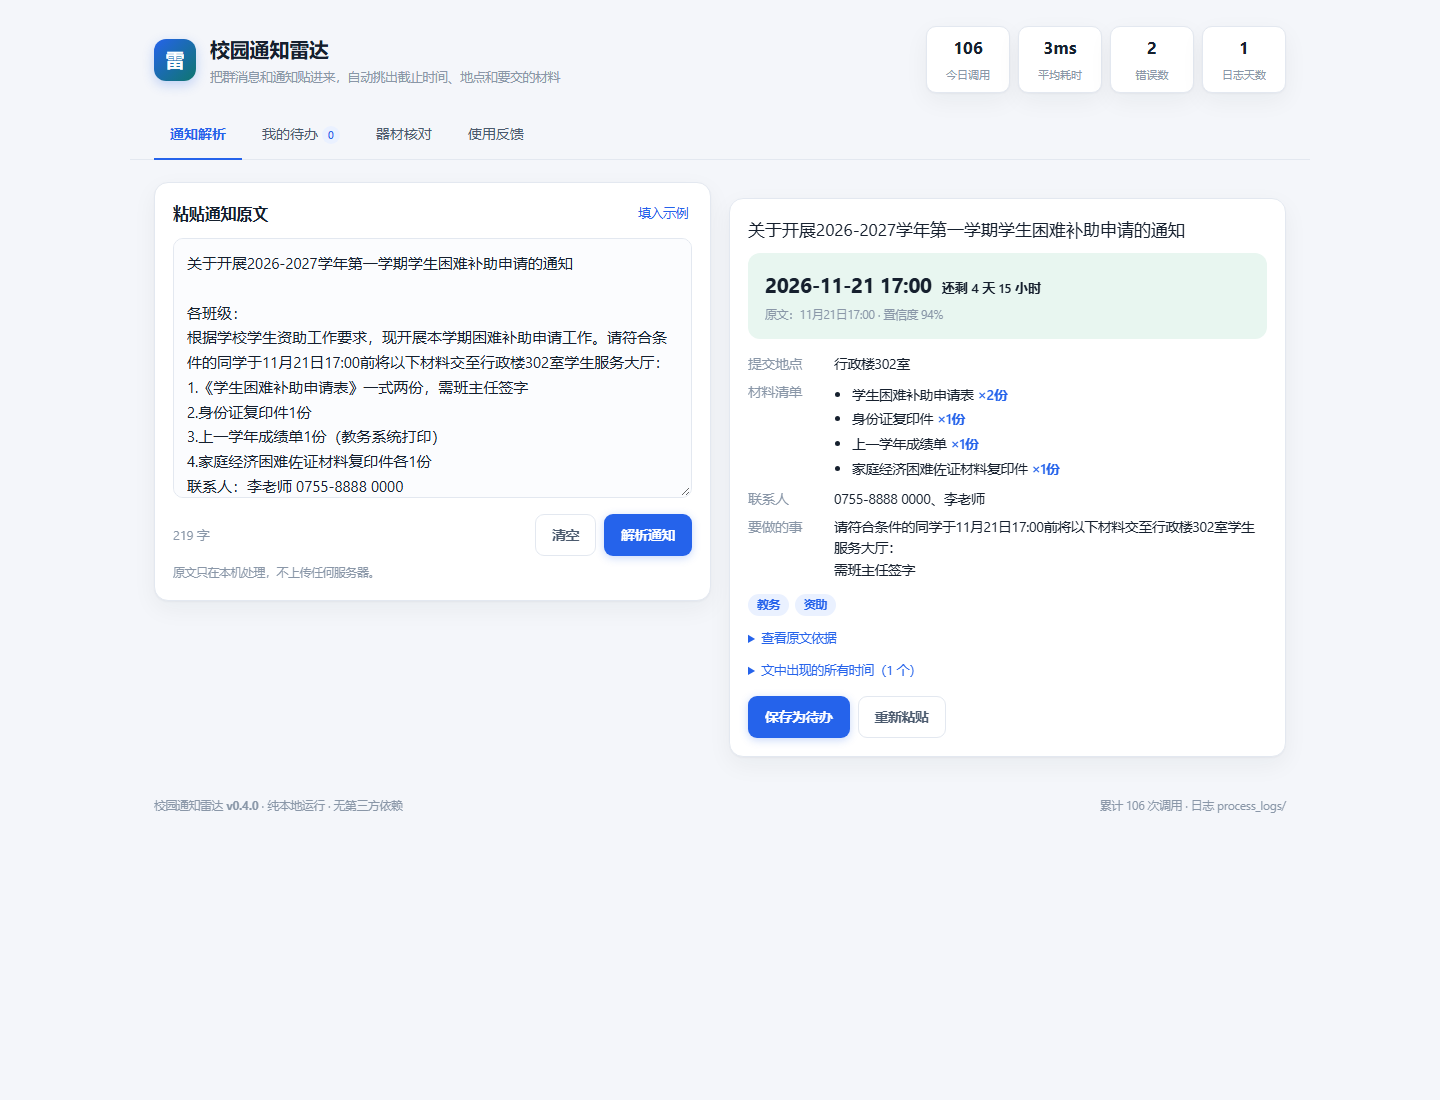
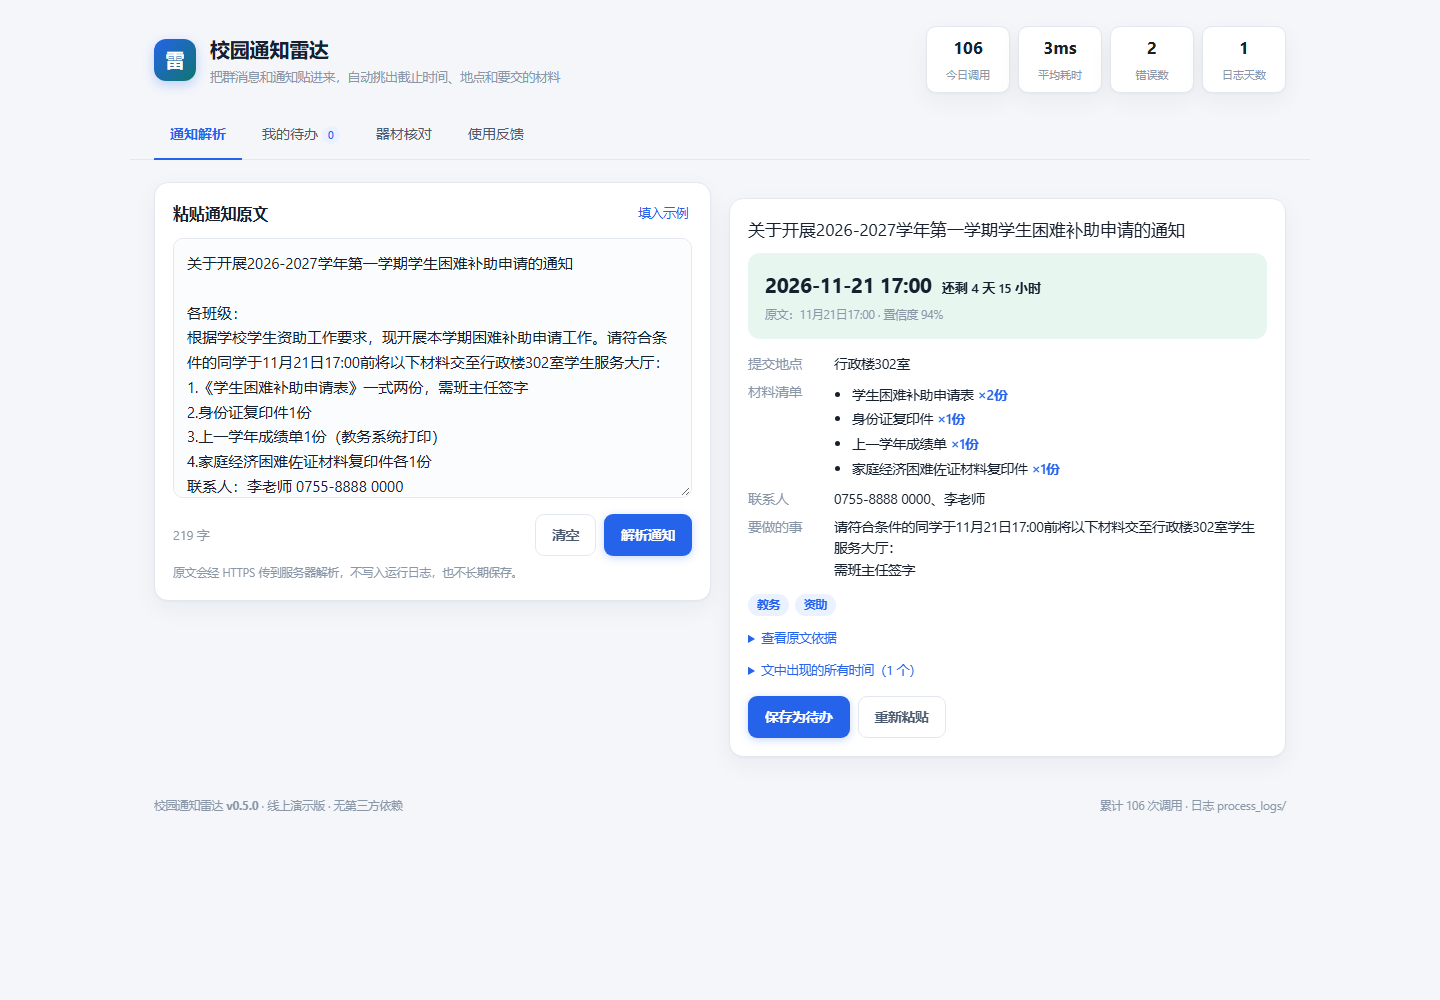
fix: 线上版隐私文案与实际处理方式保持一致
本地版写「原文只在本机处理」，线上版照搬就是假话。
按 hostname 区分：线上改为「经 HTTPS 传到服务器解析，不写入运行日志，也不长期保存」；
反馈说明同步改为「存在云端容器，重建时可能清空，提交后请复制备份」。

diff --git a/web/index.html b/web/index.html
@@ -49,7 +49,7 @@
             <button class="btn primary" id="btn-parse">解析通知</button>
           </div>
         </div>
-        <p class="privacy">原文只在本机处理，不上传任何服务器。</p>
+        <p class="privacy" id="privacy-note">原文只在本机处理，不上传任何服务器。</p>
       </div>
 
       <div class="card result-card" id="result-card">
@@ -122,7 +122,7 @@
         <h2>用一句话换我一次改进</h2>
         <span class="hint" id="fb-count"></span>
       </div>
-      <p class="hint">反馈只存在本机 feedback/responses.jsonl，不留姓名和联系方式。</p>
+      <p class="hint" id="fb-privacy">反馈只存在本机 feedback/responses.jsonl，不留姓名和联系方式。</p>
       <label class="field-label">你的身份</label>
       <select id="fb-role">
         <option>班长 / 团支书</option>

diff --git a/web/app.js b/web/app.js
@@ -445,6 +445,13 @@ const IS_CLOUD = !["127.0.0.1", "localhost", "::1"].includes(location.hostname);
 if (IS_CLOUD) {
   const mode = $("#foot-mode");
   if (mode) mode.textContent = "线上演示版";
+
+  // 隐私说明必须跟实际处理方式一致，本地版和线上版不是一回事
+  const privacy = $("#privacy-note");
+  if (privacy) privacy.textContent = "原文会经 HTTPS 传到服务器解析，不写入运行日志，也不长期保存。";
+
+  const fbPrivacy = $("#fb-privacy");
+  if (fbPrivacy) fbPrivacy.textContent = "反馈存在云端容器里，重建时可能清空 —— 提交后请复制那份记录备份。";
 }
 
 $("#btn-feedback").addEventListener("click", async () => {
